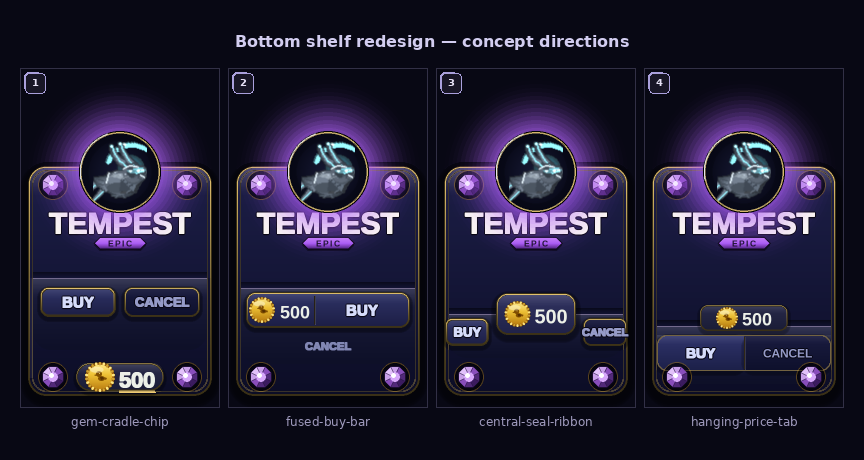
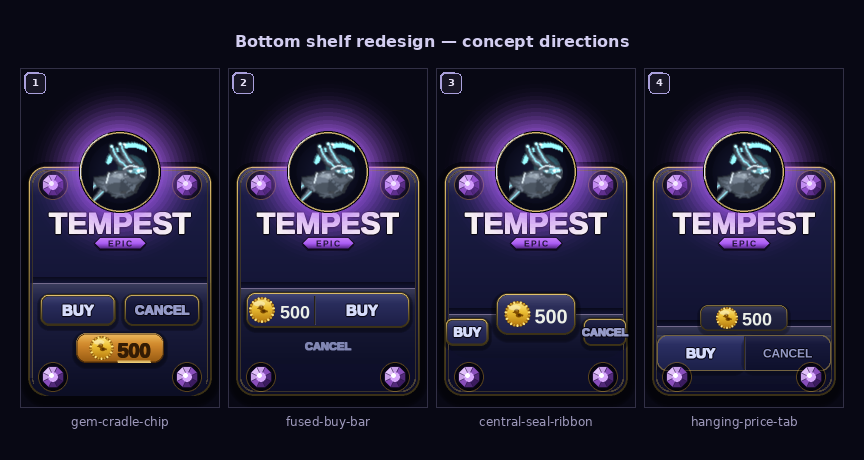
gem-cradle-chip r2: unified shelf, gold chip, showcase updated

Changed region(s): [[0.0312, 0.5783, 0.25, 0.8826]]

diff --git a/tools/_store_confirm_shelf_v3_shelf_redesign_gem_cradle_chip_r2.py b/tools/_store_confirm_shelf_v3_shelf_redesign_gem_cradle_chip_r2.py
@@ -1,0 +1,340 @@
+"""Shelf-redesign concept 1: gem-cradle-chip (R2 — elegant revision).
+
+R1 was clumsy because:
+  - 27px dead zone between shelf_bottom=282 and chip/gems at cy=309
+  - Indigo chip read as a second shelf (same colour family, no contrast)
+  - coin_r=15 too large inside 28px chip height
+
+R2 fixes:
+  1. Shelf extended to card bottom (shelf_bottom=328) — one unified action panel.
+  2. Gold/amber chip (PRICE_STOPS) — immediately recognisable as price.
+  3. Chip at cy=280, gems at cy=309: gem auras graze chip bottom for the cradle.
+  4. 3-stop shelf gradient: lighter at top (button zone) → darker at bottom (gem zone).
+
+  SHELF_Y=215, SHELF_H=113  # shelf_bottom=328 = card_bottom
+  BTN_CY=242, BTN_H=32      # btn_top=226, btn_bottom=258
+  CHIP_CY=280, CHIP_H=30    # chip_top=265, chip_bottom=295 (3px gap above gem tops)
+  BOT_GEM_CY=309            # fixed; auras reach up to ~y=293, grazing chip bottom
+
+Sheet: left=AFFORDABLE, right=UNAFFORDABLE, 444×412
+Output → docs/store_confirm_shelf_v3/shelf-redesign/gem-cradle-chip/round_2.png
+"""
+import os, sys, math
+
+os.environ.setdefault("SDL_VIDEODRIVER", "dummy")
+os.environ.setdefault("SDL_AUDIODRIVER", "dummy")
+sys.path.insert(0, os.path.join(os.path.dirname(__file__), ".."))
+
+import pygame
+pygame.init()
+pygame.display.set_mode((1, 1), pygame.NOFRAME)
+
+from PIL import Image, ImageDraw, ImageFont
+import game.store_cards as sc
+
+SS = sc.SS
+m  = sc.m
+
+POP_W, POP_H = 200, 340
+CX           = POP_W // 2
+
+CARD_X, CARD_W, CARD_TOP, CARD_H, CARD_RAD = 8, 184, 98, 230, 18
+R_HERO, DISC_CY                            = 41, 104
+GEM_R, GEM_CY, GEM_L_X, GEM_R_X            = 11, 117, 33, 167
+NAME_FS, Y_NAME                            = 30, 155
+Y_BANNER, BANNER_W                         = 175, 120
+
+# Unified action panel stretching to card bottom.
+# Buttons near top → gold chip mid → gem triad at bottom edge.
+SHELF_X, SHELF_Y, SHELF_W, SHELF_H = 13, 215, 174, 113  # shelf_bottom=328=card_bottom
+BTN_W, BTN_H, BTN_RAD              = 76, 32, 9
+BTN_CY, BTN_GAP                    = 242, 8              # btn_top=226, btn_bottom=258
+BUY_CX = CX - (BTN_W + BTN_GAP) // 2                    # 58
+CAN_CX = CX + (BTN_W + BTN_GAP) // 2                    # 142
+CHIP_W, CHIP_H, CHIP_RAD           = 88, 30, 10
+CHIP_CY                            = 280                 # chip_top=265, chip_bottom=295
+
+BOT_GEM_R  = 11
+BOT_GEM_CY = 309
+BOT_GEM_LX = 33
+BOT_GEM_RX = 167
+
+PAL   = sc.RARITY["epic"]
+PRICE = 500
+
+HAIR_GOLD   = sc.CARD_RING_BRIGHT
+_hair_final = None
+
+
+def _padlock(surf, cx, cy, h, color):
+    bw, bh = int(h * 0.92), int(h * 0.60)
+    body = pygame.Rect(0, 0, bw, bh)
+    body.center = (cx, cy + int(h * 0.20))
+    pygame.draw.rect(surf, color, body, border_radius=max(1, int(h * 0.14)))
+    sr = int(h * 0.30)
+    arc = pygame.Rect(cx - sr, body.top - sr, sr * 2, sr * 2)
+    pygame.draw.arc(surf, color, arc, math.radians(15), math.radians(165),
+                    max(1, int(h * 0.17)))
+    kh = pygame.Rect(0, 0, max(1, int(h * 0.16)), max(1, int(h * 0.22)))
+    kh.center = (cx, body.centery + int(h * 0.02))
+    pygame.draw.rect(surf, (10, 14, 26), kh, border_radius=1)
+
+
+def _btn(big, btn_rect, rad, label, font_px, locked=False, is_cancel=False):
+    if locked:
+        stops   = [(0.0, (58, 60, 74)), (1.0, (40, 42, 54))]
+        lab_col = (150, 152, 162)
+        sheen   = 10
+    elif is_cancel:
+        stops   = [(0.0, (26, 28, 64)), (1.0, (14, 16, 44))]
+        lab_col = (150, 155, 200)
+        sheen   = 14
+    else:
+        stops   = [(0.0, (48, 52, 104)), (1.0, (28, 30, 68))]
+        lab_col = (214, 220, 250)
+        sheen   = 30
+
+    sc.drop_shadow(big, btn_rect, rad, blur=m(3), alpha=100, dy=m(2))
+    big.blit(sc.vgrad_stops(btn_rect.w, btn_rect.h, rad, stops, 255), btn_rect.topleft)
+    sc.top_sheen(big, btn_rect, rad, m(12), peak=sheen)
+
+    if locked:
+        sc.bevel_rim(big, btn_rect, rad, (20, 18, 36, 180), (130, 124, 160, 200),
+                     w=max(1, m(1.2)))
+    else:
+        rim_w = m(2.2) if is_cancel else m(2.4)
+        rim_bright = (*sc.CARD_RING_BRIGHT, 200) if is_cancel else (*sc.CARD_RING_BRIGHT, 255)
+        sc.bevel_rim(big, btn_rect, rad, sc.CARD_RING_DEEP, rim_bright, w=max(1, rim_w))
+
+    lab_font = sc.font(font_px)
+    if locked:
+        lw = lab_font.size(label)[0]
+        lock_h = m(11)
+        lock_w = int(lock_h * 0.92)
+        inner  = m(4)
+        grp    = lock_w + inner + lw
+        gx     = btn_rect.centerx - grp // 2
+        _padlock(big, gx + lock_w // 2, btn_rect.centery, lock_h, lab_col)
+        sc.plain_text(big, label, lab_font,
+                      (gx + lock_w + inner + lw // 2, btn_rect.centery),
+                      lab_col, shadow_a=0, weight=m(0.6))
+    else:
+        sc.plain_text(big, label, lab_font, btn_rect.center, lab_col,
+                      shadow_a=110, weight=m(0.8), keyline=(8, 6, 20), kw=m(0.9))
+
+
+def _draw_chip(big, cx, cy, price, affordable):
+    global _hair_final
+    chip = pygame.Rect(0, 0, m(CHIP_W), m(CHIP_H))
+    chip.center = (cx, cy)
+    crad = m(CHIP_RAD)
+
+    sc.drop_shadow(big, chip, crad, blur=m(4), alpha=110, dy=m(2))
+
+    if affordable:
+        # Gold/amber — immediately reads as "price" and contrasts strongly with indigo shelf.
+        big.blit(sc.vgrad_stops(chip.w, chip.h, crad, sc.PRICE_STOPS, 255), chip.topleft)
+        sc.top_sheen(big, chip, crad, m(10), peak=40)
+        sc.bevel_rim(big, chip, crad, sc.PRICE_RIM_DARK,
+                     (*sc.PRICE_RIM_BRIGHT, 230), w=max(1, m(1.6)))
+    else:
+        face_stops = [(0.0, (62, 64, 80)), (1.0, (44, 46, 62))]
+        big.blit(sc.vgrad_stops(chip.w, chip.h, crad, face_stops, 255), chip.topleft)
+        sc.top_sheen(big, chip, crad, m(10), peak=16)
+        sc.bevel_rim(big, chip, crad, (44, 58, 58, 200), (120, 140, 140, 180),
+                     w=max(1, m(1.4)))
+
+    txt      = f"{price:,}"
+    num_font = sc.font(20)
+    coin_r   = m(12)
+    coin_d   = coin_r * 2
+    gap      = m(4)
+    num_w    = num_font.size(txt)[0]
+    total    = coin_d + gap + num_w
+    left     = cx - total // 2
+    coin_cx  = left + coin_r
+    num_cx   = left + coin_d + gap + num_w // 2
+    num_cy   = cy + m(2)
+
+    if affordable:
+        sc.coin_glyph(big, coin_cx, cy, coin_r)
+        num_col = sc.GOLD_A_NUM   # dark brown — readable on amber
+    else:
+        pygame.draw.circle(big, (120, 122, 138), (coin_cx, cy), coin_r)
+        pygame.draw.circle(big, (88, 90, 108), (coin_cx, cy), coin_r,
+                           width=max(1, m(1)))
+        num_col = (150, 154, 162)
+    sc.plain_text(big, txt, num_font, (num_cx, num_cy), num_col,
+                  shadow_a=0, weight=m(0.8))
+
+    if affordable:
+        num_h    = num_font.size(txt)[1]
+        baseline = (num_cy - num_h // 2) + num_font.get_ascent()
+        hair_h   = m(2)
+        hair_y   = baseline + m(3)
+        hair     = pygame.Surface((num_w, hair_h), pygame.SRCALPHA)
+        hair.fill((*HAIR_GOLD, int(255 * 0.85)))
+        big.blit(hair, (num_cx - num_w // 2, hair_y))
+        _hair_final = (
+            (num_cx - num_w // 2) / SS,
+            (num_cx + num_w // 2) / SS,
+            (hair_y + hair_h // 2) / SS,
+        )
+
+
+def _draw_shelf(big, affordable):
+    shelf_rect = pygame.Rect(m(SHELF_X), m(SHELF_Y), m(SHELF_W), m(SHELF_H))
+    shelf_rad  = m(CARD_RAD)
+
+    # 3-stop gradient: lighter at top (button zone) → darker at bottom (gem foundation).
+    if affordable:
+        shelf_stops = [(0.0, (34, 36, 72)), (0.5, (22, 24, 54)), (1.0, (12, 14, 36))]
+    else:
+        shelf_stops = [(0.0, (32, 34, 56)), (0.5, (22, 22, 44)), (1.0, (12, 12, 30))]
+
+    shelf = sc.vgrad_stops(shelf_rect.w, shelf_rect.h, 0, shelf_stops, 255).copy()
+    shelf_mask = pygame.Surface(shelf_rect.size, pygame.SRCALPHA)
+    pygame.draw.rect(shelf_mask, (255, 255, 255, 255), shelf_mask.get_rect(),
+                     border_bottom_left_radius=shelf_rad,
+                     border_bottom_right_radius=shelf_rad)
+    shelf.blit(shelf_mask, (0, 0), special_flags=pygame.BLEND_RGBA_MIN)
+    sc.top_sheen(shelf, shelf.get_rect(), 0, m(20), peak=30)
+    lip = (115, 106, 140) if affordable else (62, 62, 86)
+    pygame.draw.line(shelf, lip, (0, 0), (shelf_rect.w - 1, 0), max(1, m(1)))
+
+    seat = pygame.Surface((shelf_rect.w, m(6)), pygame.SRCALPHA)
+    for yy in range(m(6)):
+        a = int(120 * (1 - yy / m(6)))
+        pygame.draw.line(seat, (0, 0, 0, a), (0, yy), (shelf_rect.w - 1, yy))
+    big.blit(seat, (shelf_rect.x, shelf_rect.y - m(6)))
+    big.blit(shelf, shelf_rect.topleft)
+
+    wall_draw_h = m(CARD_TOP + CARD_H - CARD_RAD - SHELF_Y)
+    if wall_draw_h > 0:
+        wall_w = m(SHELF_X - CARD_X)
+        lwall  = pygame.Surface((wall_w, wall_draw_h), pygame.SRCALPHA)
+        for xx in range(wall_w):
+            a = int(50 * xx / max(1, wall_w - 1))
+            pygame.draw.line(lwall, (130, 120, 165, a), (xx, 0), (xx, wall_draw_h - 1))
+        big.blit(lwall, (m(CARD_X), m(SHELF_Y)))
+        rwall = pygame.Surface((wall_w, wall_draw_h), pygame.SRCALPHA)
+        for xx in range(wall_w):
+            a = int(50 * (1 - xx / max(1, wall_w - 1)))
+            pygame.draw.line(rwall, (0, 0, 0, a), (xx, 0), (xx, wall_draw_h - 1))
+        big.blit(rwall, (m(SHELF_X + SHELF_W), m(SHELF_Y)))
+
+    buy  = pygame.Rect(0, 0, m(BTN_W), m(BTN_H))
+    buy.center = (m(BUY_CX), m(BTN_CY))
+    can  = pygame.Rect(0, 0, m(BTN_W), m(BTN_H))
+    can.center = (m(CAN_CX), m(BTN_CY))
+    brad = m(BTN_RAD)
+    _btn(big, buy, brad, "BUY",    15, locked=not affordable)
+    _btn(big, can, brad, "CANCEL", 13, is_cancel=True)
+
+    # Gold chip inside the unified shelf panel.
+    _draw_chip(big, m(CX), m(CHIP_CY), PRICE, affordable)
+
+
+def _draw_bottom_gems(big, affordable):
+    # Drawn after shelf — gem auras graze chip_bottom=295, creating the cradle effect.
+    for gem_cx in [m(BOT_GEM_LX), m(BOT_GEM_RX)]:
+        if affordable:
+            sc._alpha_aura(big, gem_cx, m(BOT_GEM_CY), m(16), PAL["glow"], peak=60, layers=14)
+            sc.facet_gem(big, gem_cx, m(BOT_GEM_CY), m(BOT_GEM_R), PAL["gem"], PAL["deep"])
+        else:
+            sc._alpha_aura(big, gem_cx, m(BOT_GEM_CY), m(16), (90, 92, 110), peak=35, layers=14)
+            sc.facet_gem(big, gem_cx, m(BOT_GEM_CY), m(BOT_GEM_R), (80, 82, 100), (50, 52, 66))
+
+
+def render_popup(name, affordable):
+    global _hair_final
+    _hair_final = None
+    big = pygame.Surface((POP_W * SS, POP_H * SS), pygame.SRCALPHA)
+
+    rect = pygame.Rect(m(CARD_X), m(CARD_TOP), m(CARD_W), m(CARD_H))
+    rad  = m(CARD_RAD)
+    sc.drop_shadow(big, rect, rad, blur=m(8), alpha=165, dy=m(4))
+    big.blit(sc.vgrad_stops(rect.w, rect.h, rad,
+             [(0.0, sc.CARD_T), (1.0, sc.CARD_B)], 255, gamma=1.15), rect.topleft)
+    sc.top_sheen(big, rect, rad, m(30), peak=56)
+    pygame.draw.rect(big, (4, 5, 16), rect, width=max(1, m(2)), border_radius=rad)
+    sc.bevel_rim(big, rect, rad, sc.CARD_RING_DEEP,
+                 (*sc.CARD_RING_BRIGHT, 230), w=max(1, m(1.9)))
+    tray = rect.inflate(-m(8), -m(8))
+    pygame.draw.rect(big, (*sc.CARD_RING_BRIGHT, 55), tray,
+                     width=max(1, m(1)), border_radius=rad - m(3))
+
+    sc.facet_gem(big, m(GEM_L_X), m(GEM_CY), m(GEM_R), PAL["gem"], PAL["deep"])
+    sc.facet_gem(big, m(GEM_R_X), m(GEM_CY), m(GEM_R), PAL["gem"], PAL["deep"])
+    sc.plain_text(big, name, sc.font(NAME_FS), (m(CX), m(Y_NAME)), (250, 248, 240),
+                  shadow_a=160, weight=m(0.9), keyline=(6, 6, 16), kw=m(1.0))
+    sc._ribbon_lozenge(big, 'EPIC', m(CX), m(Y_BANNER), m(BANNER_W), PAL)
+
+    _draw_shelf(big, affordable)
+    _draw_bottom_gems(big, affordable)
+
+    cx_ss, cy_ss, r_ss = m(CX), m(DISC_CY), m(R_HERO)
+    sc._alpha_aura(big, cx_ss, cy_ss, r_ss + m(55), PAL["glow"], peak=95, layers=24)
+    sc._alpha_aura(big, cx_ss, cy_ss, r_ss + m(20), PAL["glow"], peak=70, layers=12)
+    sc.cabochon(big, cx_ss, cy_ss, r_ss, sc.CABO_LO, sc.CABO_HI,
+                ring=PAL["gem"], ring_a=50)
+    sc.blit_thumb(big, "skin_tempest", cx_ss, cy_ss, int(r_ss * 1.5))
+    sc.cabochon_glass(big, cx_ss, cy_ss, r_ss, tint=PAL["gem"])
+
+    final = pygame.transform.smoothscale(big, (POP_W, POP_H))
+    if affordable and _hair_final is not None:
+        x0, x1, hy = _hair_final
+        pygame.draw.line(final, HAIR_GOLD, (int(round(x0)), int(round(hy))),
+                         (int(round(x1)), int(round(hy))), 1)
+    return final
+
+
+MARGIN, HDR_H, GAP_HDR = 18, 28, 8
+CANVAS_W, CANVAS_H     = 444, 412
+
+canvas = Image.new("RGB", (CANVAS_W, CANVAS_H), (8, 8, 20))
+draw   = ImageDraw.Draw(canvas)
+
+try:
+    fnt_hdr   = ImageFont.truetype("/usr/share/fonts/truetype/dejavu/DejaVuSans-Bold.ttf", 13)
+    fnt_badge = ImageFont.truetype("/usr/share/fonts/truetype/dejavu/DejaVuSans-Bold.ttf", 11)
+except Exception:
+    fnt_hdr = fnt_badge = ImageFont.load_default()
+
+draw.text((CANVAS_W // 2, MARGIN + HDR_H // 2),
+          "gem-cradle-chip R2  |  AFFORDABLE / UNAFFORDABLE",
+          fill=(180, 200, 240), font=fnt_hdr, anchor="mm")
+
+panels_y    = MARGIN + HDR_H + GAP_HDR
+panels_data = []
+for px, affordable in [(18, True), (226, False)]:
+    surf  = render_popup("TEMPEST", affordable)
+    bg    = pygame.Surface((POP_W, POP_H))
+    bg.fill((8, 8, 20))
+    bg.blit(surf, (0, 0))
+    raw   = pygame.image.tostring(bg, "RGB")
+    panel = Image.frombytes("RGB", (POP_W, POP_H), raw)
+    panels_data.append((px, affordable, panel))
+
+for px, affordable, panel in panels_data:
+    canvas.paste(panel, (px, panels_y))
+    bx, by = px + 5, panels_y + 5
+    badge  = "1"
+    bw     = int(fnt_badge.getlength(badge)) + 8
+    draw.rounded_rectangle([bx - 1, by - 1, bx + bw + 1, by + 18], radius=5,
+                            fill=(170, 160, 220))
+    draw.rounded_rectangle([bx, by, bx + bw, by + 17], radius=4, fill=(24, 22, 38))
+    draw.text((bx + 4, by + 8), badge, fill=(230, 225, 245), font=fnt_badge, anchor="lm")
+
+OUT = os.path.abspath(os.path.join(os.path.dirname(__file__), "..",
+      "docs", "store_confirm_shelf_v3", "shelf-redesign", "gem-cradle-chip", "round_2.png"))
+os.makedirs(os.path.dirname(OUT), exist_ok=True)
+canvas.save(OUT)
+print(f"Saved {OUT}  ({CANVAS_W}x{CANVAS_H})")
+
+img   = Image.open(OUT)
+btn   = img.getpixel((18 + 58,  54 + 242))   # BUY center
+chip  = img.getpixel((18 + 100, 54 + 280))   # chip center
+gem_l = img.getpixel((18 + 33,  54 + 309))   # left bottom gem
+shelf = img.getpixel((18 + 100, 54 + 315))   # shelf bottom strip
+print(f"size:{img.size}  btn:{btn}  chip:{chip}  gem_l:{gem_l}  shelf:{shelf}")

diff --git a/tools/_store_confirm_shelf_v3_shelf_redesign_showcase.py b/tools/_store_confirm_shelf_v3_shelf_redesign_showcase.py
@@ -5,7 +5,7 @@ import os
 BASE = os.path.dirname(os.path.dirname(os.path.abspath(__file__)))
 
 PANELS = [
-    ("1", "gem-cradle-chip",    "docs/store_confirm_shelf_v3/shelf-redesign/gem-cradle-chip/round_1.png"),
+    ("1", "gem-cradle-chip",    "docs/store_confirm_shelf_v3/shelf-redesign/gem-cradle-chip/round_2.png"),
     ("2", "fused-buy-bar",      "docs/store_confirm_shelf_v3/shelf-redesign/fused-buy-bar/round_1.png"),
     ("3", "central-seal-ribbon","docs/store_confirm_shelf_v3/shelf-redesign/central-seal-ribbon/round_1.png"),
     ("4", "hanging-price-tab",  "docs/store_confirm_shelf_v3/shelf-redesign/hanging-price-tab/round_1.png"),
